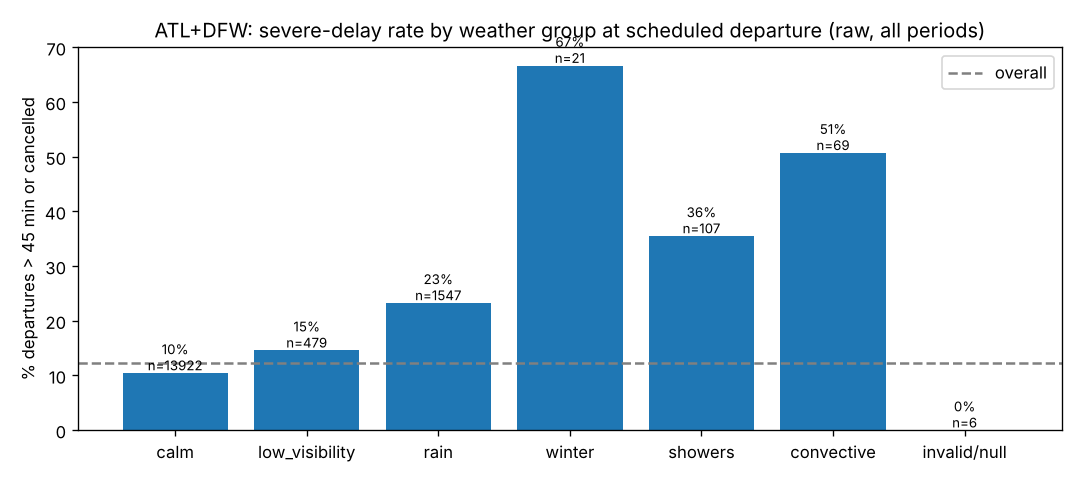
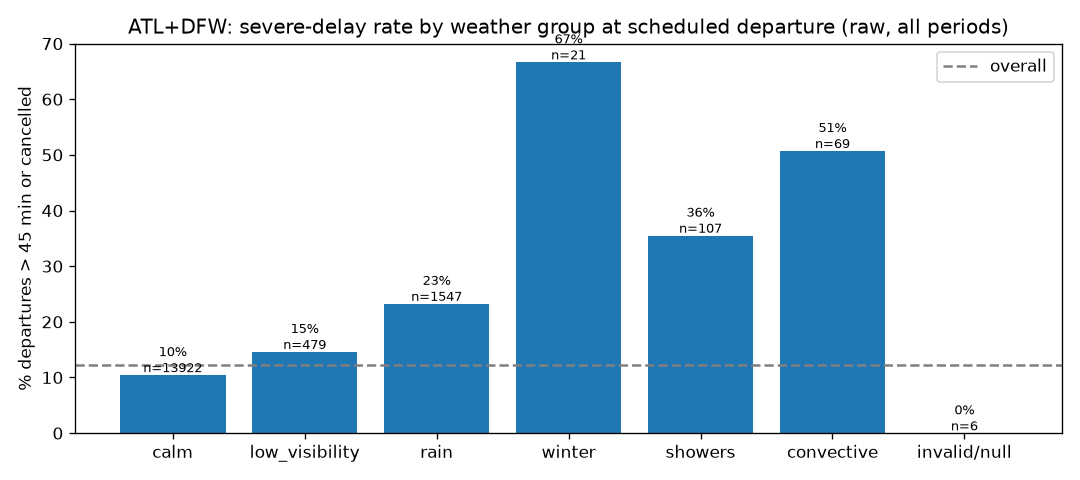
B3.10: calm demo case per L-015 (selection rule in demo_cases.md); T-0 glue scripts

diff --git a/run_all.py b/run_all.py
@@ -201,10 +201,30 @@ def build_demo_cases(test_rows, T, ctx, fl):
     lead = 6
     h = hour_table(test_rows, T["E"]["LGBM"], T["cap_dep"], lead)
     first = test_rows[test_rows["lead"] == lead].drop_duplicates(["airport", "T"]).set_index(["airport", "T"])
-    h = h.join(first[["coco_calm", "prcp_sum_6h", "prcp_mm"]], on=["airport", "T"])
+    h = h.join(first[["coco_calm", "prcp_sum_6h", "prcp_mm", "local_hour"]], on=["airport", "T"])
     red = h[h["n_severe"] >= 1].sort_values(["p45", "n_severe"], ascending=False).iloc[0]
-    calm = h[(h["risk"] == "GREEN") & (h["n_on_time"] == h["n_flights"]) & (h["n_flights"] >= 2)
-             & (h["coco_calm"] == 1) & (h["prcp_mm"].fillna(0) == 0)].sort_values("p45").iloc[0]
+    # B3.10 / L-015 calm-case selection rule (I-001): test period, 6 h ahead, ATL/DFW; true GREEN with
+    # all sampled departures on time (>= 2 flights); calm and dry at issue time; daytime target
+    # (08:00-18:00 local); lowest P(>45), ties -> earliest; first with confidence HIGH or MEDIUM.
+    calm, calm_min_flights, calm_n_candidates = None, None, 0
+    for min_flights in (2, 1):  # fallback: relax ">= 2 flights" to ">= 1" only if no candidate
+        cand = h[(h["risk"] == "GREEN") & (h["n_on_time"] == h["n_flights"]) & (h["n_flights"] >= min_flights)
+                 & (h["coco_calm"] == 1) & (h["prcp_mm"].fillna(0) == 0)
+                 & (h["local_hour"] >= 8) & (h["local_hour"] <= 18)].sort_values(["p45", "T"])
+        ok = []
+        for _, r in cand.iterrows():
+            Tt = pd.Timestamp(r["T"])
+            resp = api.predict(r["airport"], Tt.strftime("%Y-%m-%dT%H:%M:%SZ"),
+                               (Tt - pd.Timedelta(hours=lead)).strftime("%Y-%m-%dT%H:%M:%SZ"))
+            if resp["status"] == "ok" and resp["risk_level"] == "GREEN" \
+                    and resp["confidence"]["level"] in ("HIGH", "MEDIUM"):
+                ok.append((r, resp["confidence"]["level"]))
+        if ok:
+            calm, calm_conf = ok[0]
+            calm_min_flights, calm_n_candidates, calm_n_pool = min_flights, len(ok), len(cand)
+            break
+    if calm is None:
+        sys.exit("B3.10: no calm demo candidate meets L-015 even with >= 1 flight. Tell the lead.")
     miss_T = pd.Timestamp("2025-06-28T12:00:00Z")
     miss = h[(h["airport"] == "ATL") & (h["T"] == miss_T)].iloc[0]
     iso = lambda t: pd.Timestamp(t).strftime("%Y-%m-%dT%H:%M:%SZ")
@@ -216,7 +236,7 @@ def build_demo_cases(test_rows, T, ctx, fl):
                 f"({SEV_DEF}), {int(r['n_on_time'])} on time")
     cases = [
         ("true_red", f"True RED: highest-risk test hour where severe delays happened ({red['airport']}, 6 h ahead)", red),
-        ("calm", f"True GREEN: calm hour, all flights on time ({calm['airport']}, 6 h ahead)", calm),
+        ("calm", f"True GREEN: calm daytime hour, all flights on time, confidence {calm_conf} ({calm['airport']}, 6 h ahead)", calm),
         ("miss", "Known failure case: morning after a storm, last reading 7 h old (ATL, 6 h ahead)", miss),
     ]
     out, lines = [], ["# Demo cases (B3.8 / L-013)", "",
@@ -247,7 +267,15 @@ def build_demo_cases(test_rows, T, ctx, fl):
         {"version": card["model_version"], "cases": out}, indent=2) + "\n")
     lines += ["", "Honesty notes: the true-RED case was chosen as the highest-P(>45) test hour with at least "
               "one severe delay, whatever the weather. It is **not** claimed as a storm correctly flagged. "
-              "The failure case is an honest miss and should show GREEN."]
+              "The failure case is an honest miss and should show GREEN.", "",
+              "Calm-case selection rule (B3.10 / L-015, applied by `build_demo_cases()`): (1) test period, "
+              "6 h ahead, ATL or DFW; (2) true GREEN: predict() returns GREEN and every sampled departure in "
+              f"the hour was on time, with at least {calm_min_flights} flight(s); (3) calm, dry weather at the "
+              "issue time (`coco_calm == 1`, no precipitation); (4) confidence HIGH or MEDIUM as returned by "
+              "predict(); (5) daytime: target hour 08:00-18:00 local; (6) lowest P(>45), ties -> earliest date. "
+              f"Hours meeting rules 1-3 and 5: {calm_n_pool}; of these, also meeting rule 4: {calm_n_candidates}. "
+              + ("Fallback used: '>= 2 flights' relaxed to '>= 1'." if calm_min_flights == 1
+                 else "Fallback not needed (>= 2 flights kept).")]
     (path("reports_dir") / "demo_cases.md").write_text("\n".join(lines) + "\n")
     print("  demo cases written")
 

diff --git a/scripts/smoke_real.py b/scripts/smoke_real.py
@@ -1,0 +1,38 @@
+"""J-1 smoke test: real predict() vs the contract. Run: python scripts/smoke_real.py"""
+import json, time, pathlib, sys, jsonschema
+
+sys.path.insert(0, str(pathlib.Path(__file__).resolve().parents[1]))  # glue: allow running from scripts/ (I-log)
+from backend.api import predict
+
+ROOT = pathlib.Path(__file__).resolve().parents[1]
+SCHEMA = json.loads((ROOT / "contract/schema.json").read_text())
+CASES = json.loads((ROOT / "reports/demo_cases.json").read_text())["cases"]
+EXTRA = [  # must be refused or errored, never crash
+    {"id": "bad_airport", "airport": "XYZ", "now_utc": "2025-06-14T16:00:00Z", "target_hour_utc": "2025-06-14T22:00:00Z"},
+    {"id": "not_on_hour", "airport": "ATL", "now_utc": "2025-06-14T16:00:00Z", "target_hour_utc": "2025-06-14T22:30:00Z"},
+    {"id": "out_of_range", "airport": "ATL", "now_utc": "2026-01-01T00:00:00Z", "target_hour_utc": "2026-01-01T06:00:00Z"},
+    {"id": "icao_code", "airport": "KDFW", "now_utc": "2025-05-06T11:00:00Z", "target_hour_utc": "2025-05-06T17:00:00Z"},
+]
+K = ["p_gt15", "p_gt30", "p_gt45", "p_gt60"]
+rows = []
+for c in CASES + EXTRA:
+    t0 = time.perf_counter()
+    r = predict(c["airport"], c["target_hour_utc"], c["now_utc"])
+    dt = time.perf_counter() - t0
+    jsonschema.validate(r, SCHEMA)
+    note = r["status"]
+    if r["status"] == "ok":
+        p = [r["hour_delay_risk"][k] for k in K]
+        assert p == sorted(p, reverse=True), f"{c['id']}: risks not monotonic"
+        for d in r["drivers"]:
+            assert d["observed_at_utc"] is None or d["observed_at_utc"] <= r["request"]["now_utc"], f"{c['id']}: future driver"
+        for f in r["flights"]:
+            assert f["source"] == "SIMULATED" and [f[k] for k in K] == p, f"{c['id']}: flight rows"
+        assert r["data_period"] == "TEST", f"{c['id']}: demo case not in test period"
+        note = f'{r["risk_level"]} p>45={r["hour_delay_risk"]["p_gt45"]:.2f} cap={r["capacity"]["index"]:.2f} conf={r["confidence"]["level"]}'
+    elif r["status"] == "refused":
+        note = f'refused {r["refusal"]["code"]}'
+    assert r == predict(c["airport"], c["target_hour_utc"], c["now_utc"]), f"{c['id']}: not deterministic"
+    rows.append((c["id"], note, f"{dt:.2f}s"))
+for row in rows:
+    print(" | ".join(row))

diff --git a/reports/demo_cases.md b/reports/demo_cases.md
@@ -5,9 +5,11 @@ All from the TEST period (Apr–Jul 2025), never seen in training or tuning. Eac
 | id | airport | now (UTC) | target (UTC) | target local | predict() says | what actually happened |
 |---|---|---|---|---|---|---|
 | true_red | DFW | 2025-05-19T19:00:00Z | 2025-05-20T01:00:00Z | Mon 19 May 2025 20:00 local | RED · P(>45) 0.403 · conf HIGH | 1 of 1 sampled departures severely delayed (> 45 min late or cancelled), 0 on time |
-| calm | ATL | 2025-04-05T05:00:00Z | 2025-04-05T11:00:00Z | Sat 05 Apr 2025 07:00 local | GREEN · P(>45) 0.054 · conf LOW | 0 of 2 sampled departures severely delayed (> 45 min late or cancelled), 2 on time |
+| calm | ATL | 2025-04-10T10:00:00Z | 2025-04-10T16:00:00Z | Thu 10 Apr 2025 12:00 local | GREEN · P(>45) 0.062 · conf HIGH | 0 of 3 sampled departures severely delayed (> 45 min late or cancelled), 3 on time |
 | miss | ATL | 2025-06-28T06:00:00Z | 2025-06-28T12:00:00Z | Sat 28 Jun 2025 08:00 local | GREEN · P(>45) 0.099 · conf LOW | 2 of 2 sampled departures severely delayed (> 45 min late or cancelled), 0 on time |
 | too_soon | DFW | 2025-05-19T23:00:00Z | 2025-05-20T01:00:00Z | Mon 19 May 2025 20:00 local | refused LEAD_TOO_SHORT | (no forecast by design) |
 | too_far | DFW | 2025-05-19T12:00:00Z | 2025-05-20T01:00:00Z | Mon 19 May 2025 20:00 local | refused LEAD_TOO_LONG | (no forecast by design) |
 
 Honesty notes: the true-RED case was chosen as the highest-P(>45) test hour with at least one severe delay, whatever the weather. It is **not** claimed as a storm correctly flagged. The failure case is an honest miss and should show GREEN.
+
+Calm-case selection rule (B3.10 / L-015, applied by `build_demo_cases()`): (1) test period, 6 h ahead, ATL or DFW; (2) true GREEN: predict() returns GREEN and every sampled departure in the hour was on time, with at least 2 flight(s); (3) calm, dry weather at the issue time (`coco_calm == 1`, no precipitation); (4) confidence HIGH or MEDIUM as returned by predict(); (5) daytime: target hour 08:00-18:00 local; (6) lowest P(>45), ties -> earliest date. Hours meeting rules 1-3 and 5: 79; of these, also meeting rule 4: 65. Fallback not needed (>= 2 flights kept).

diff --git a/reports/decisions_log.md b/reports/decisions_log.md
@@ -81,3 +81,9 @@ Every deviation from the project documents (01–06) is recorded here: what, why
 | L-018 | Front end's schema change (request fields nullable on refused/error only) accepted retroactively. It matches the v1.0 clarification and back-end contract tests pass. |
 | L-019 | Presets must read `reports/demo_cases.json` with verbatim labels and no extra auto-refusals (F-3b). The capacity note must be visible (F3.7). `f3-ready` only after F-3b. |
 | L-020 | F-3b reassigned to the integration and testing expert, with narrow permissions (presets reader, capacity note, their tests). The lead reviews it personally (independence). |
+
+## Integration and testing expert (T-0, B3.10, F-3b). Details in docs/14
+| ID | Date | What | Why | Effect |
+|---|---|---|---|---|
+| I-000 | 2026-10-31 | Glue added: `scripts/smoke_real.py` (code from docs/11 §3, plus one `sys.path` line so it runs as `python scripts/smoke_real.py` from the repo root), `scripts/setup_and_run.sh`, `scripts/setup_and_run.bat`. | T0.6 | No product code touched |
+| I-001 | 2026-10-31 | **B3.10 calm demo case per L-015.** Only the calm selection in `run_all.py: build_demo_cases()` changed. Rule: (1) test period, 6 h ahead, ATL/DFW; (2) predict() GREEN and all sampled departures on time, ≥ 2 flights; (3) `coco_calm == 1`, no precipitation at issue time; (4) predict() confidence HIGH or MEDIUM; (5) target 08:00–18:00 local (inclusive); (6) lowest P(>45), ties → earliest. Fallback ≥ 1 flight coded but **not needed**. Rule also written into `reports/demo_cases.md`. | Two GREEN demo cases both showing LOW confidence would mislead judges (L-015). Selection, not tuning: model and thresholds untouched. | **Chosen: ATL, target 2025-04-10T16:00Z (Thu 10 Apr 2025 12:00 local), now 10:00Z, P(>45) 0.062, GREEN, confidence HIGH, 3 of 3 sampled departures on time.** 79 hours met rules 1–3 + 5; 65 of them also met rule 4. Label: "True GREEN: calm daytime hour, all flights on time, confidence HIGH (ATL, 6 h ahead)". |
